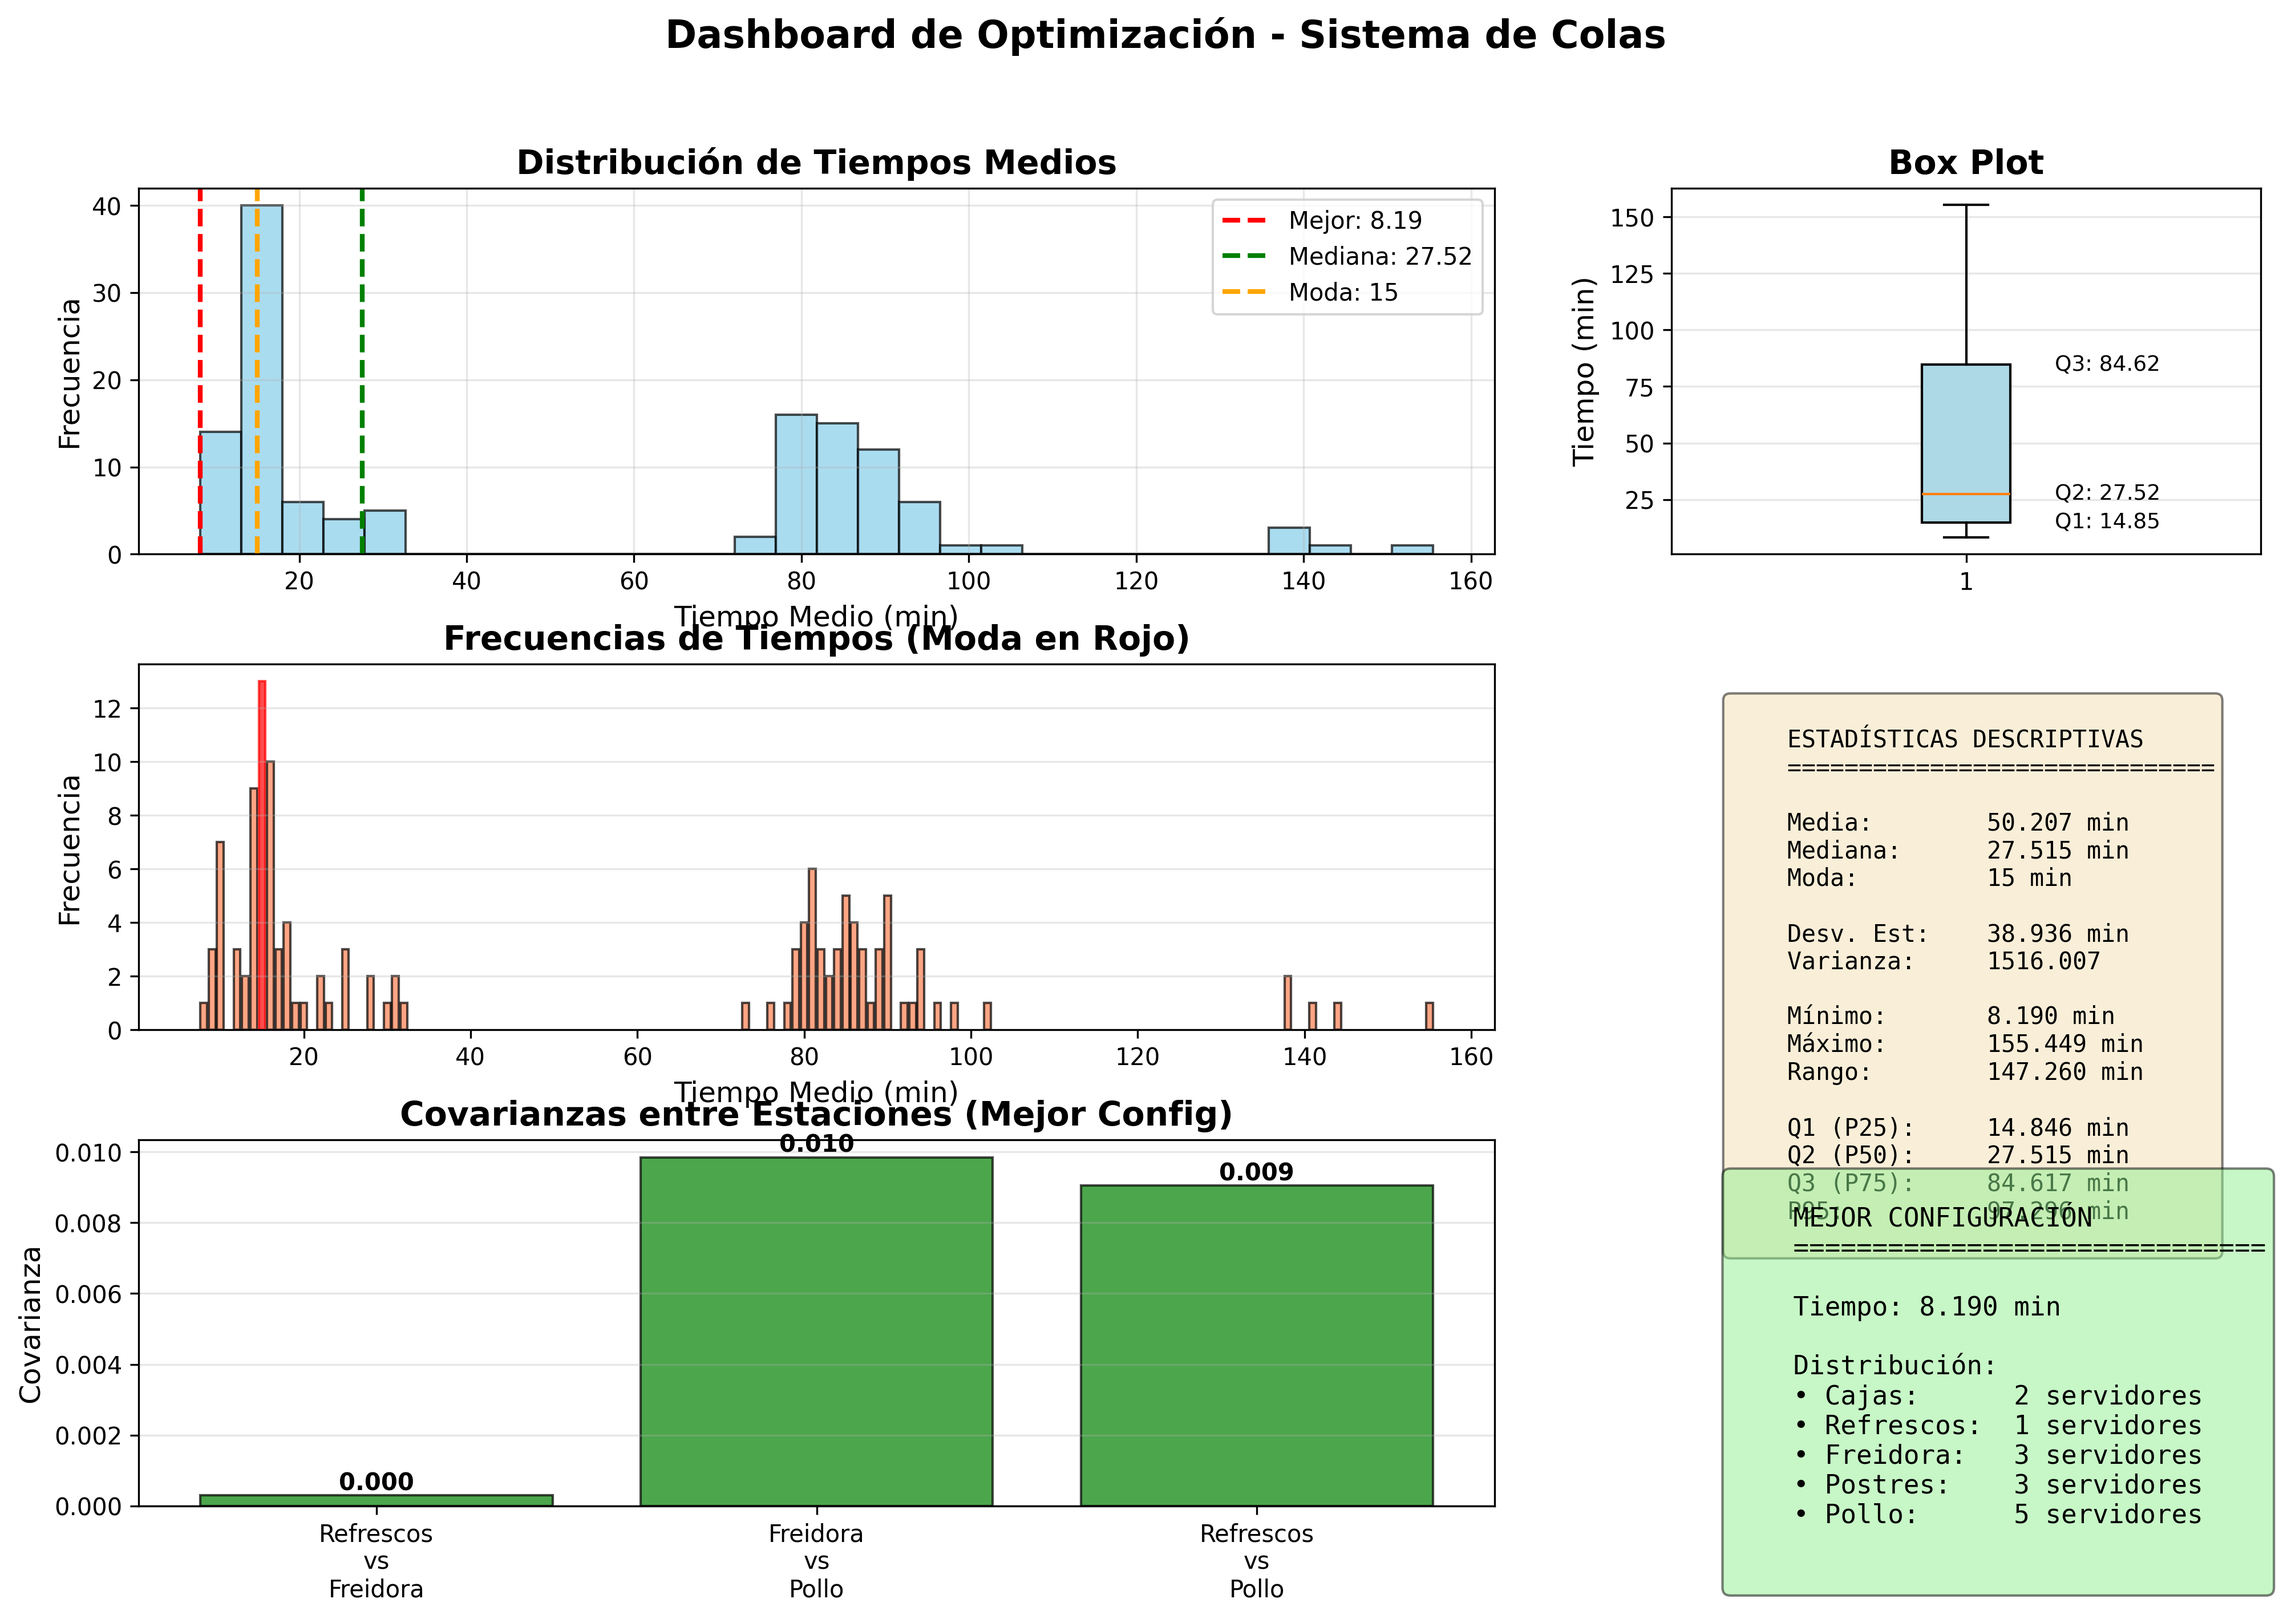
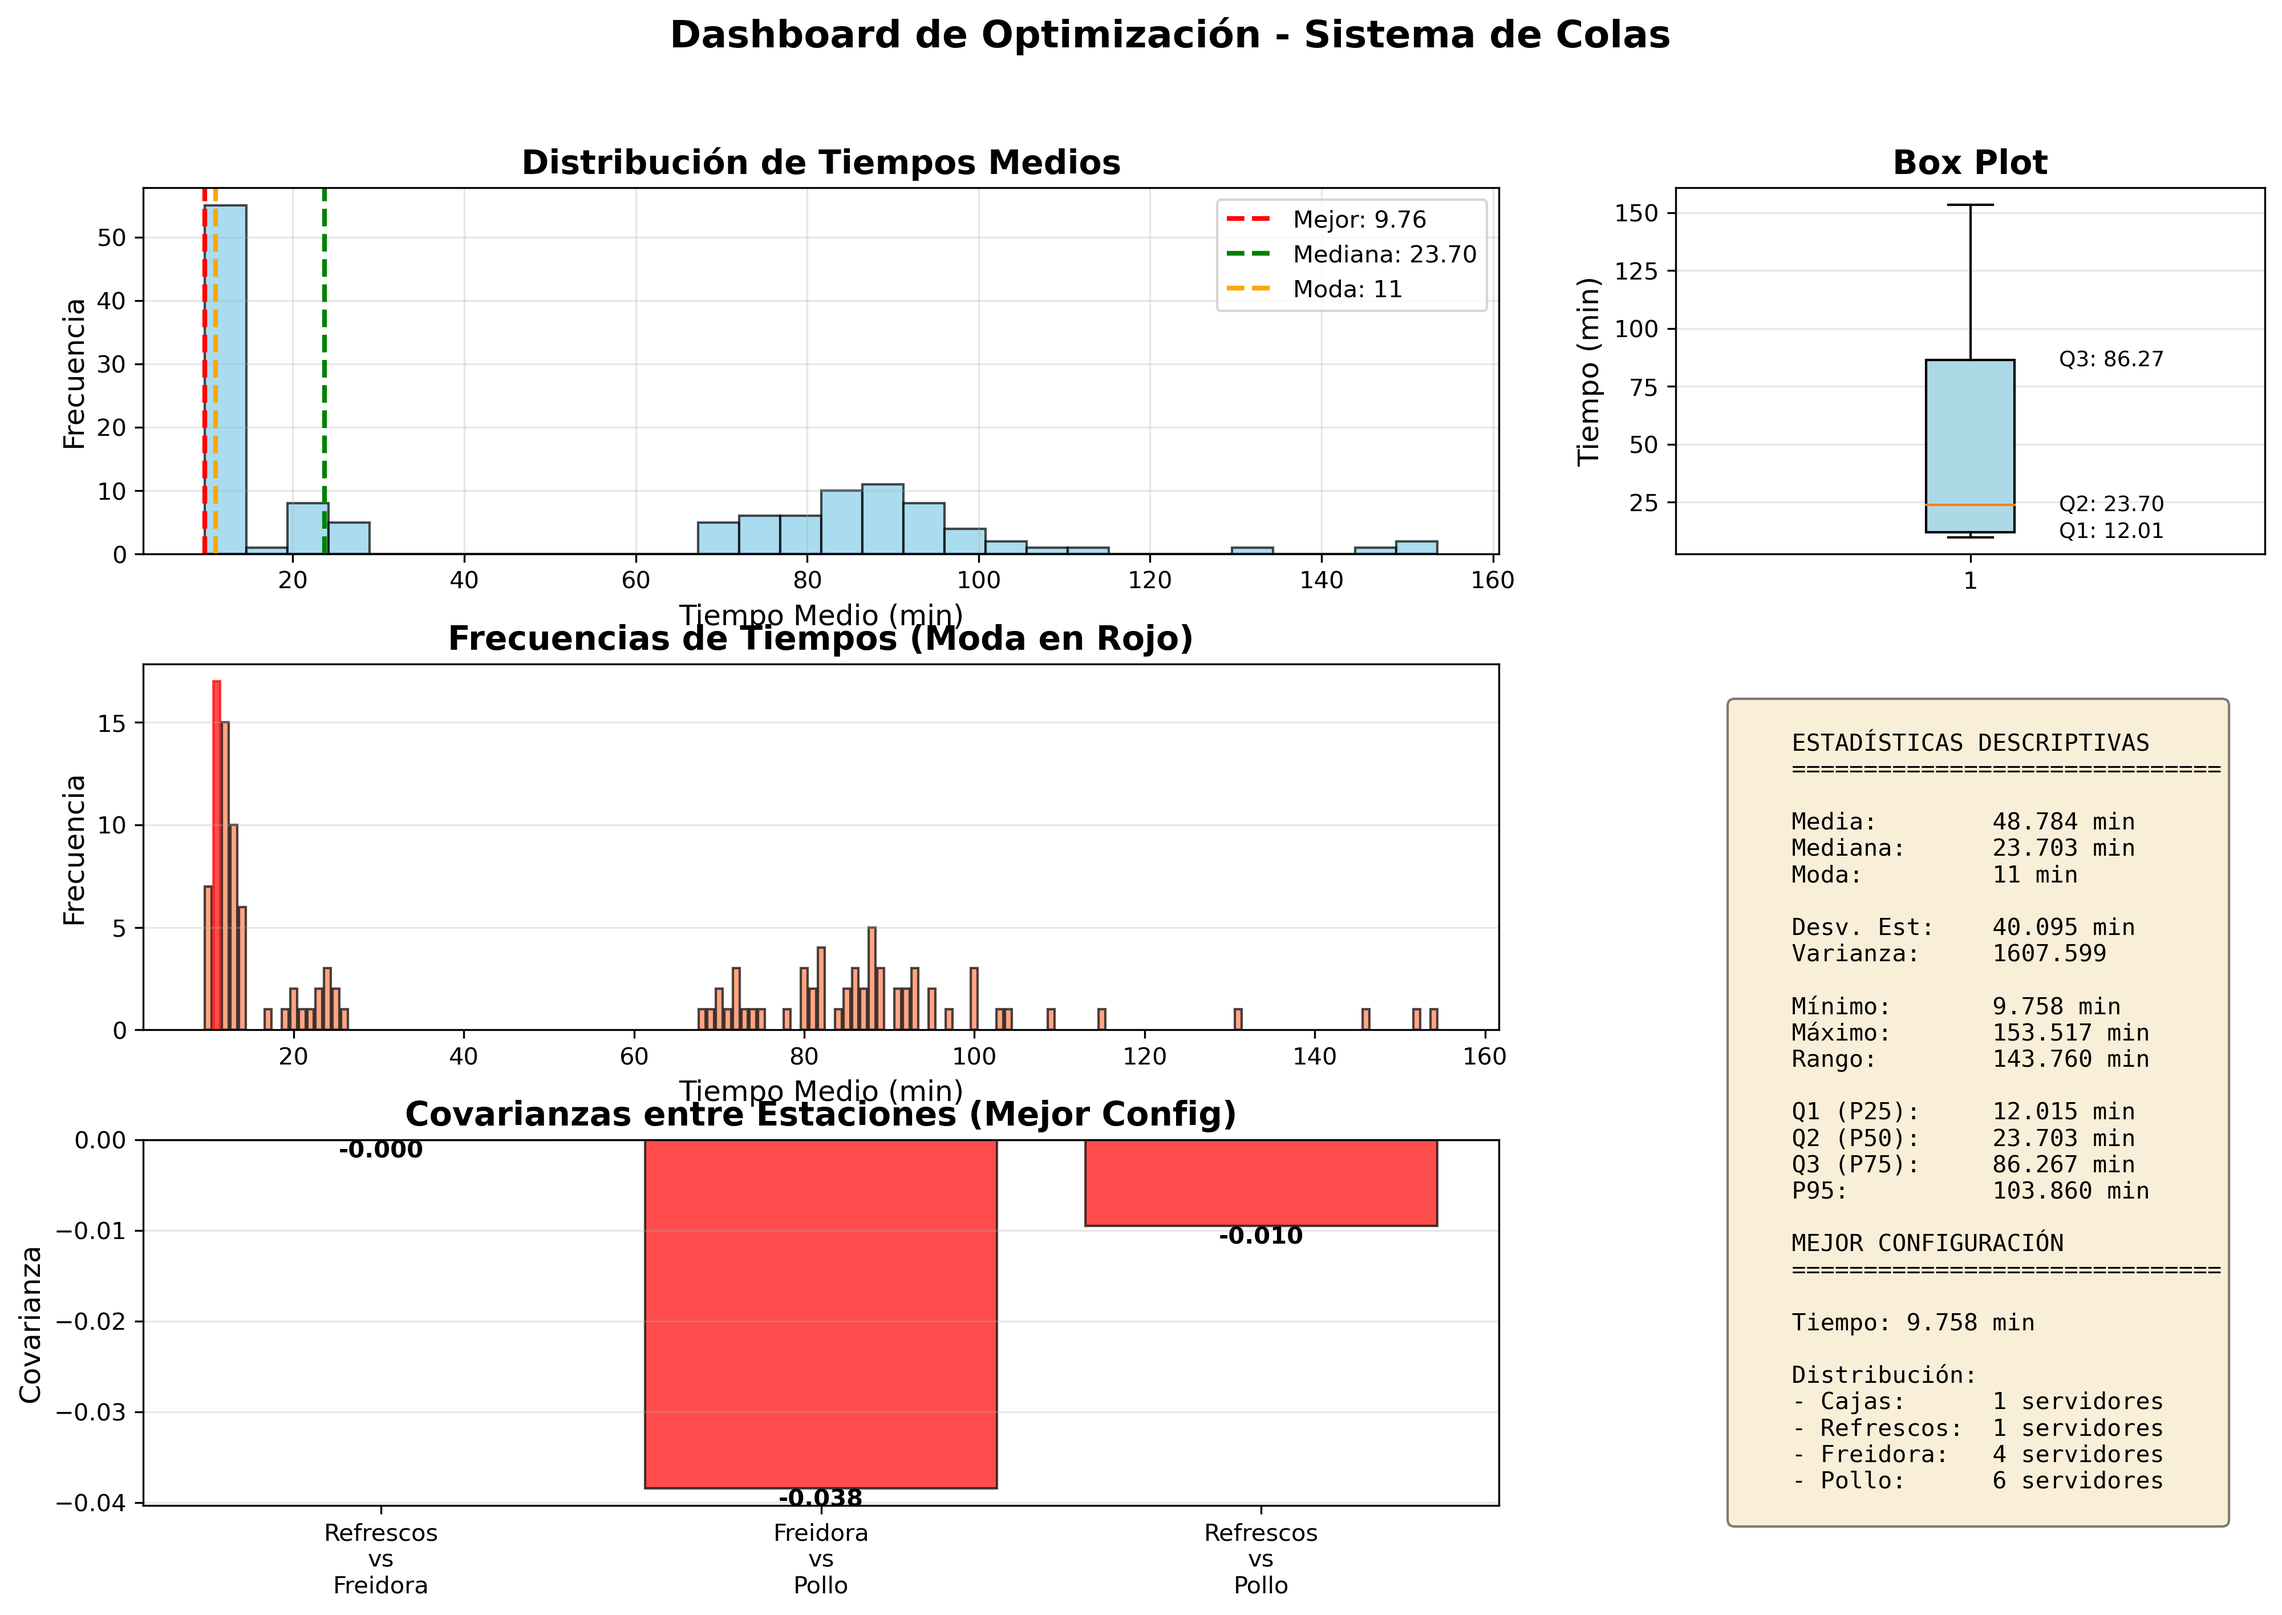
...

diff --git a/proyecto/main (1).py b/proyecto/main (1).py
@@ -334,7 +334,7 @@ def graficar_all(medias, freq, mejor_tiempo, mejor_config, mediana, moda, varian
     ax2.set_ylabel('Tiempo (min)', fontsize=12)
     ax2.set_title('Box Plot', fontsize=14, fontweight='bold')
     ax2.grid(True, alpha=0.3, axis='y')
-    
+
     # cuartiles
     ax2.text(1.15, c1, f'Q1: {c1:.2f}', fontsize=9, va='center')
     ax2.text(1.15, c2, f'Q2: {c2:.2f}', fontsize=9, va='center')
@@ -344,99 +344,87 @@ def graficar_all(medias, freq, mejor_tiempo, mejor_config, mediana, moda, varian
     ax3 = fig.add_subplot(gs[1, :2])
     tiempos_ordenados = sorted(freq.keys())
     frecuencias = [freq[k] for k in tiempos_ordenados]
-    
+
     bars = ax3.bar(tiempos_ordenados, frecuencias, edgecolor='black', alpha=0.7, color='coral')
-    
+
     if moda in freq:
         idx_moda = tiempos_ordenados.index(moda)
         bars[idx_moda].set_color('red')
-    
+
     ax3.set_xlabel('Tiempo Medio (min)', fontsize=12)
     ax3.set_ylabel('Frecuencia', fontsize=12)
     ax3.set_title('Frecuencias de Tiempos (Moda en Rojo)', fontsize=14, fontweight='bold')
     ax3.grid(True, alpha=0.3, axis='y')
 
     # tabla estadistica
-    ax4 = fig.add_subplot(gs[1, 2])
+    ax4 = fig.add_subplot(gs[1:, 2])
     ax4.axis('off')
-    
-    stats_text = f"""
+
+    combined_text = f"""
     ESTADÍSTICAS DESCRIPTIVAS
     {'='*30}
-    
+
     Media:        {np.mean(medias):.3f} min
     Mediana:      {mediana:.3f} min
     Moda:         {moda} min
-    
+
     Desv. Est:    {np.sqrt(varianza):.3f} min
     Varianza:     {varianza:.3f}
-    
+
     Mínimo:       {np.min(medias):.3f} min
     Máximo:       {np.max(medias):.3f} min
     Rango:        {np.max(medias) - np.min(medias):.3f} min
-    
+
     Q1 (P25):     {c1:.3f} min
     Q2 (P50):     {c2:.3f} min
     Q3 (P75):     {c3:.3f} min
     P95:          {p95:.3f} min
+
+    MEJOR CONFIGURACIÓN
+    {'='*30}
+
+    Tiempo: {mejor_tiempo:.3f} min
+
+    Distribución:
+    - Cajas:      {mejor_config.cajas} servidores
+    - Refrescos:  {mejor_config.refrescos} servidores
+    - Freidora:   {mejor_config.freidora} servidores
+    - Pollo:      {mejor_config.pollo} servidores
     """
-    
-    ax4.text(0.1, 0.9, stats_text, transform=ax4.transAxes,
-             fontsize=10, verticalalignment='top',
-             fontfamily='monospace',
-             bbox=dict(boxstyle='round', facecolor='wheat', alpha=0.5))
+
+    ax4.text(0.1, 0.95, combined_text, transform=ax4.transAxes,
+    fontsize=10, verticalalignment='top',
+    fontfamily='monospace',
+    bbox=dict(boxstyle='round', facecolor='wheat', alpha=0.5))
 
     # covarianza
     ax5 = fig.add_subplot(gs[2, :2])
-    
+
     covs = {
         'Refrescos\nvs\nFreidora': cov_ref_frei,
         'Freidora\nvs\nPollo': cov_frei_pol,
         'Refrescos\nvs\nPollo': cov_ref_pol
     }
-    
+
     colors = ['green' if v > 0 else 'red' for v in covs.values()]
     bars = ax5.bar(covs.keys(), covs.values(), color=colors, edgecolor='black', alpha=0.7)
-    
+
     ax5.axhline(0, color='black', linewidth=0.8)
     ax5.set_ylabel('Covarianza', fontsize=12)
     ax5.set_title('Covarianzas entre Estaciones (Mejor Config)', fontsize=14, fontweight='bold')
     ax5.grid(True, alpha=0.3, axis='y')
-    
+
     for bar, val in zip(bars, covs.values()):
         height = bar.get_height()
         ax5.text(bar.get_x() + bar.get_width()/2., height,
                 f'{val:.3f}',
                 ha='center', va='bottom' if height > 0 else 'top',
                 fontsize=10, fontweight='bold')
-        
-    # mejor config
-    ax6 = fig.add_subplot(gs[2, 2])
-    ax6.axis('off')
-    
-    config_text = f"""
-    MEJOR CONFIGURACIÓN
-    {'='*30}
-    
-    Tiempo: {mejor_tiempo:.3f} min
-    
-    Distribución:
-    • Cajas:      {mejor_config.cajas} servidores
-    • Refrescos:  {mejor_config.refrescos} servidores
-    • Freidora:   {mejor_config.freidora} servidores
-    • Pollo:      {mejor_config.pollo} servidores
-    
-    """
-    
-    ax6.text(0.1, 0.9, config_text, transform=ax6.transAxes,
-             fontsize=11, verticalalignment='top',
-             fontfamily='monospace',
-             bbox=dict(boxstyle='round', facecolor='lightgreen', alpha=0.5))
-    
+
     # Título general
-    fig.suptitle('Dashboard de Optimización - Sistema de Colas', 
+    fig.suptitle('Dashboard de Optimización - Sistema de Colas',
                  fontsize=16, fontweight='bold', y=0.98)
-    
+
     plt.savefig('resultados_optimizacion.png', dpi=300, bbox_inches='tight')
     plt.show()
 
@@ -505,9 +493,9 @@ def minimizar(presupuesto: int) -> tuple[float | floating, list[int] | None]:
     c3 = np.percentile(medias, 75)
 
     # percentiles
-    p25 = np.percentile(medias, 25)
-    p50 = np.percentile(medias, 50)
-    p75 = np.percentile(medias, 75)
+    p25 = c1
+    p50 = c2
+    p75 = c3
     p95 = np.percentile(medias, 95)
 
     graficar_all(medias, freq, mejor_tiempo, mejor_config, mediana, moda, varianza, c1, c2, c3, p95, cov_ref_frei, cov_frei_pol, cov_ref_pol)

diff --git a/proyecto/main.py b/proyecto/main.py
@@ -425,34 +425,45 @@ def graficar_all(medias, freq, mejor_tiempo, mejor_config, mediana, moda, varian
     ax3.grid(True, alpha=0.3, axis='y')
 
     # tabla estadistica
-    ax4 = fig.add_subplot(gs[1, 2])
+    ax4 = fig.add_subplot(gs[1:, 2])
     ax4.axis('off')
 
-    stats_text = f"""
+    combined_text = f"""
     ESTADÍSTICAS DESCRIPTIVAS
     {'='*30}
-    
+
     Media:        {np.mean(medias):.3f} min
     Mediana:      {mediana:.3f} min
     Moda:         {moda} min
-    
+
     Desv. Est:    {np.sqrt(varianza):.3f} min
     Varianza:     {varianza:.3f}
-    
+
     Mínimo:       {np.min(medias):.3f} min
     Máximo:       {np.max(medias):.3f} min
     Rango:        {np.max(medias) - np.min(medias):.3f} min
-    
+
     Q1 (P25):     {c1:.3f} min
     Q2 (P50):     {c2:.3f} min
     Q3 (P75):     {c3:.3f} min
     P95:          {p95:.3f} min
+
+    MEJOR CONFIGURACIÓN
+    {'='*30}
+
+    Tiempo: {mejor_tiempo:.3f} min
+
+    Distribución:
+    - Cajas:      {mejor_config.cajas} servidores
+    - Refrescos:  {mejor_config.refrescos} servidores
+    - Freidora:   {mejor_config.freidora} servidores
+    - Pollo:      {mejor_config.pollo} servidores
     """
 
-    ax4.text(0.1, 0.9, stats_text, transform=ax4.transAxes,
-             fontsize=10, verticalalignment='top',
-             fontfamily='monospace',
-             bbox=dict(boxstyle='round', facecolor='wheat', alpha=0.5))
+    ax4.text(0.1, 0.95, combined_text, transform=ax4.transAxes,
+    fontsize=10, verticalalignment='top',
+    fontfamily='monospace',
+    bbox=dict(boxstyle='round', facecolor='wheat', alpha=0.5))
 
     # covarianza
     ax5 = fig.add_subplot(gs[2, :2])
@@ -477,30 +488,6 @@ def graficar_all(medias, freq, mejor_tiempo, mejor_config, mediana, moda, varian
                 f'{val:.3f}',
                 ha='center', va='bottom' if height > 0 else 'top',
                 fontsize=10, fontweight='bold')
-
-    # mejor config
-    ax6 = fig.add_subplot(gs[2, 2])
-    ax6.axis('off')
-
-    config_text = f"""
-    MEJOR CONFIGURACIÓN
-    {'='*30}
-    
-    Tiempo: {mejor_tiempo:.3f} min
-    
-    Distribución:
-    • Cajas:      {mejor_config.cajas} servidores
-    • Refrescos:  {mejor_config.refrescos} servidores
-    • Freidora:   {mejor_config.freidora} servidores
-    • Postres:    {mejor_config.freidora} servidores
-    • Pollo:      {mejor_config.pollo} servidores
-    
-    """
-
-    ax6.text(0.1, 0.9, config_text, transform=ax6.transAxes,
-             fontsize=11, verticalalignment='top',
-             fontfamily='monospace',
-             bbox=dict(boxstyle='round', facecolor='lightgreen', alpha=0.5))
 
     # Título general
     fig.suptitle('Dashboard de Optimización - Sistema de Colas',
@@ -574,9 +561,9 @@ def minimizar(presupuesto: int) -> tuple[float | floating, list[int] | None]:
     c3 = np.percentile(medias, 75)
 
     # percentiles
-    p25 = np.percentile(medias, 25)
-    p50 = np.percentile(medias, 50)
-    p75 = np.percentile(medias, 75)
+    p25 = c1
+    p50 = c2
+    p75 = c3
     p95 = np.percentile(medias, 95)
 
     graficar_all(medias, freq, mejor_tiempo, mejor_config, mediana, moda, varianza, c1, c2, c3, p95, cov_ref_frei, cov_frei_pol, cov_ref_pol)
